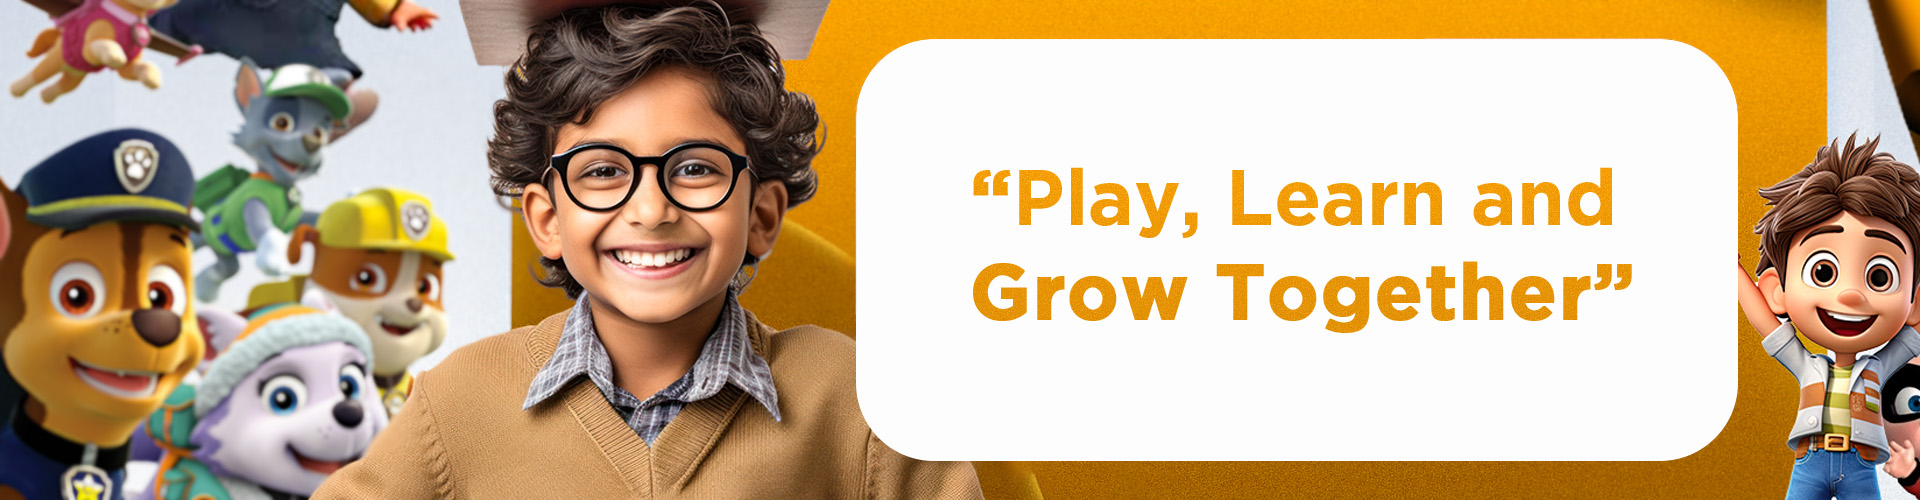
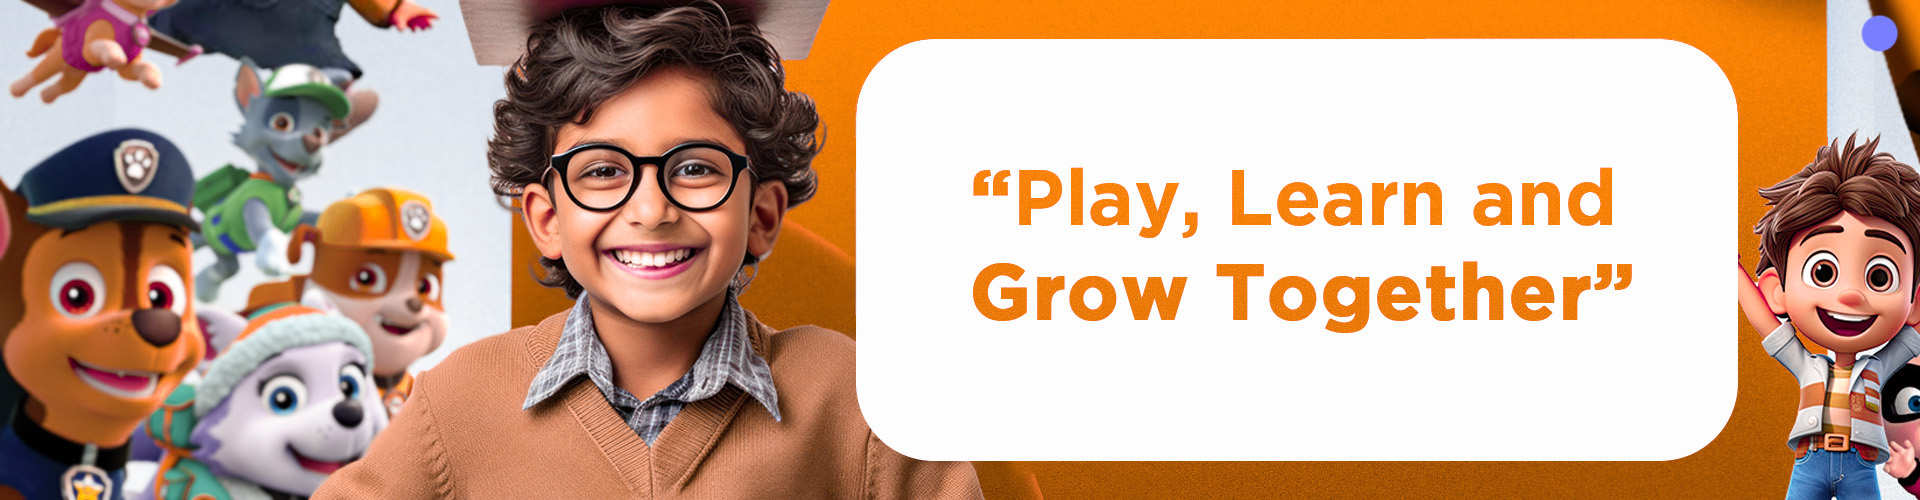
2nd submit

diff --git a/css/style.css b/css/style.css
@@ -79,7 +79,7 @@ html {
 	text-align: center;
 }
 .heading-section span {
-	color: #787eff;
+	color: #fd8303;
 }
 .subhead-section {
 	font-size: 16px;
@@ -88,7 +88,7 @@ html {
 }
 /* HEADER TOP SECTION HEADER TOP SECTION HEADER TOP SECTION HEADER TOP SECTION HEADER TOP SECTION HEADER TOP SECTION */
 .header-top {
-	background: #787eff;
+	background: #fd8303;
 	width: 100%;
 	float: left;
 }
@@ -182,7 +182,7 @@ html {
 }
 .about-detail h6 {
 	font-size:16px;
-	color: #787eff;
+	color: #fd8303;
 }
 .about-detail h1 {
 	font-size: 32px;
@@ -190,7 +190,7 @@ html {
 	color: #1f2836;
 }
 .about-detail h1 span {
-	color: #787eff;
+	color: #fd8303;
 }
 .about-detail p {
 	font-size: 14px;
@@ -205,7 +205,7 @@ html {
 	padding: 15px 15px;
 	text-align:center;
 	margin-top:10px;
-	border: 2px solid #787eff;
+	border: 2px solid #fd8303;
 }
 .about-box img {
 	height:100px;
@@ -230,12 +230,12 @@ html {
 	padding: 10px 10px 10px 20px;
 	width: 100%;
 	float: left;
-	color: #787eff;
+	color: #fd8303;
 }
 .notice-board {
 	width: 100%;
 	float: left;
-	border:3px solid #787eff;
+	border:3px solid #fd8303;
 	margin-top: 10px;
 	border-radius: 10px;
 }
@@ -264,7 +264,7 @@ html {
 .event-list li {
 	width: 100%;
 	float: left;
-	box-shadow: 0px 0px 2px 0px #ffffff1f;
+	box-shadow: 0px 0px 2px 0px #fd8303;
 	margin-bottom: 20px;
 	list-style: none;
 	padding: 10px 6px 10px 5px;
@@ -275,7 +275,7 @@ html {
 	float: left;
 	width:85px;
 	text-align: center;
-	border:2px solid #787eff;
+	border:2px solid #fd8303;
 	padding-top: 5px;
 	border-radius: 10px;
 }
@@ -285,7 +285,7 @@ html {
 }
 .event-date p {
 	font-size: 14px;
-	background: #787eff;
+	background: #fd8303;
 	color: #fff;
 	padding: 5px;
 	margin-top: 5px;
@@ -302,7 +302,7 @@ html {
 	font-weight: 500;
 }
 .event-content a {
-	color: #787eff;
+	color: #fd8303;
 	text-decoration: none;
 	font-weight: bold;
 	margin-right: 50px;

diff --git a/index.html b/index.html
@@ -9,13 +9,13 @@
   <div class="container">
     <div class="width-50" >
       <ul class="header-left ">
-        <li> <a href="#"><i class="fa fa-phone"></i></i> <span>123-456-7890</span> </a></li>
-        <li><a href="#"><i class="fa fa-envelope-o"></i> <span>info@yourmail.com</span> </a></li>
+        <li> <a href="#"><i class="fa fa-phone"></i></i> <span>033-109099, 9842839339</span> </a></li>
+        <li><a href="#"><i class="fa fa-envelope-o"></i> <span>prashanttiwari1111111@gmail.com</span> </a></li>
       </ul>
     </div>
     <div class="width-50" >
       <ul class="header-right">
-        <li><a href="#"><i class="fa fa-facebook "></i> </a></li>
+        <li><a href="https://www.facebook.com/shivshaktibalacademy"><i class="fa fa-facebook "></i> </a></li>
         <li><a href="#"><i class="fa fa-instagram"></i></a> </li>
         <li><a href="#"><i class="fa fa-twitter"></i></a></li>
         <li><a href="#"><i class="fa fa-youtube-play"></i></a></li>
@@ -44,7 +44,7 @@
 <div class="notification">
   <div class="container"> <b>Notification : </b>
     <marquee direction="left"  scrollamount="10">
-    <img src="images/new.gif"> Report of Acrivities to submitted till 15/02/2023 Appointed counseling of Director <img src="images/new.gif"> Report of Acrivities to submitted till 15/02/2023 Appointed counseling of Director <img src="images/new.gif"> Report of Acrivities to submitted till 15/02/2023 Appointed counseling of Director
+    <img src="images/new.gif"> Welcome to Shiv Shakti Bal Academy, Chandra Ayodhyapur Siraha (Nepal)  <img src="images/new.gif"> Free Admission for sarswati puja intake, Book your seat today Call at: 9842839339 <img src="images/new.gif"> Play, Learn and Grow Together!
     </marquee>
   </div>
 </div>
